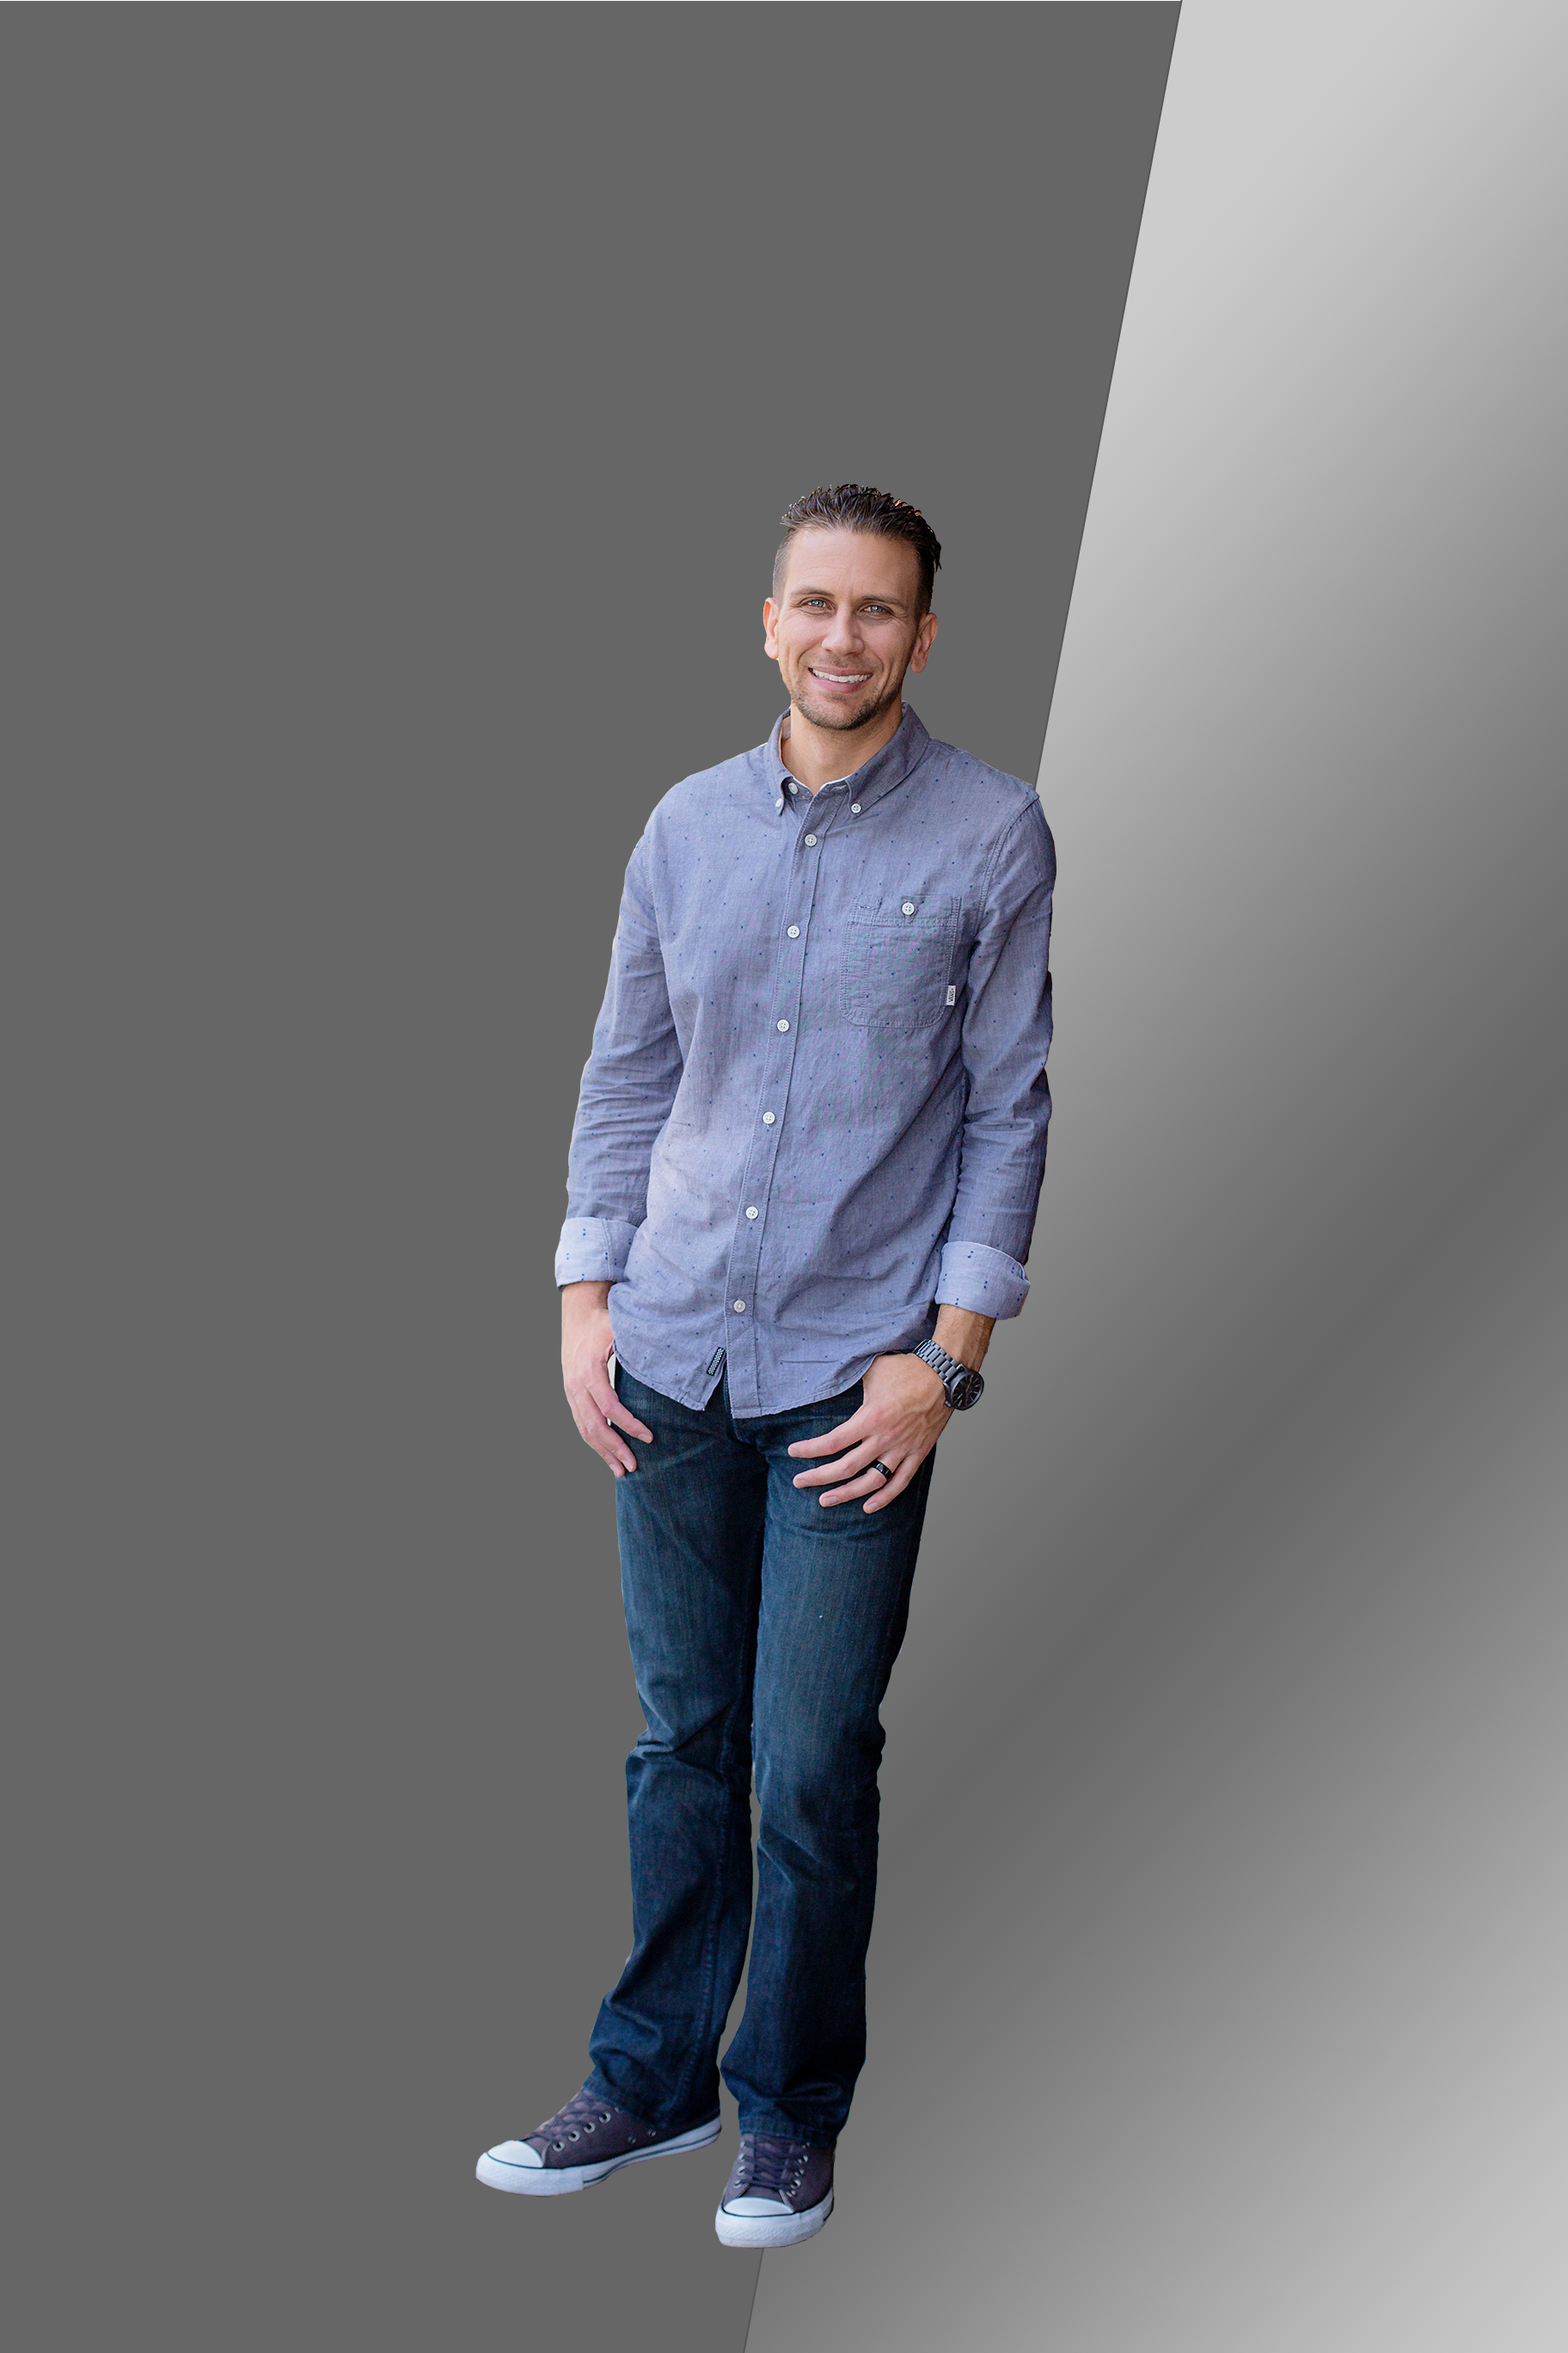
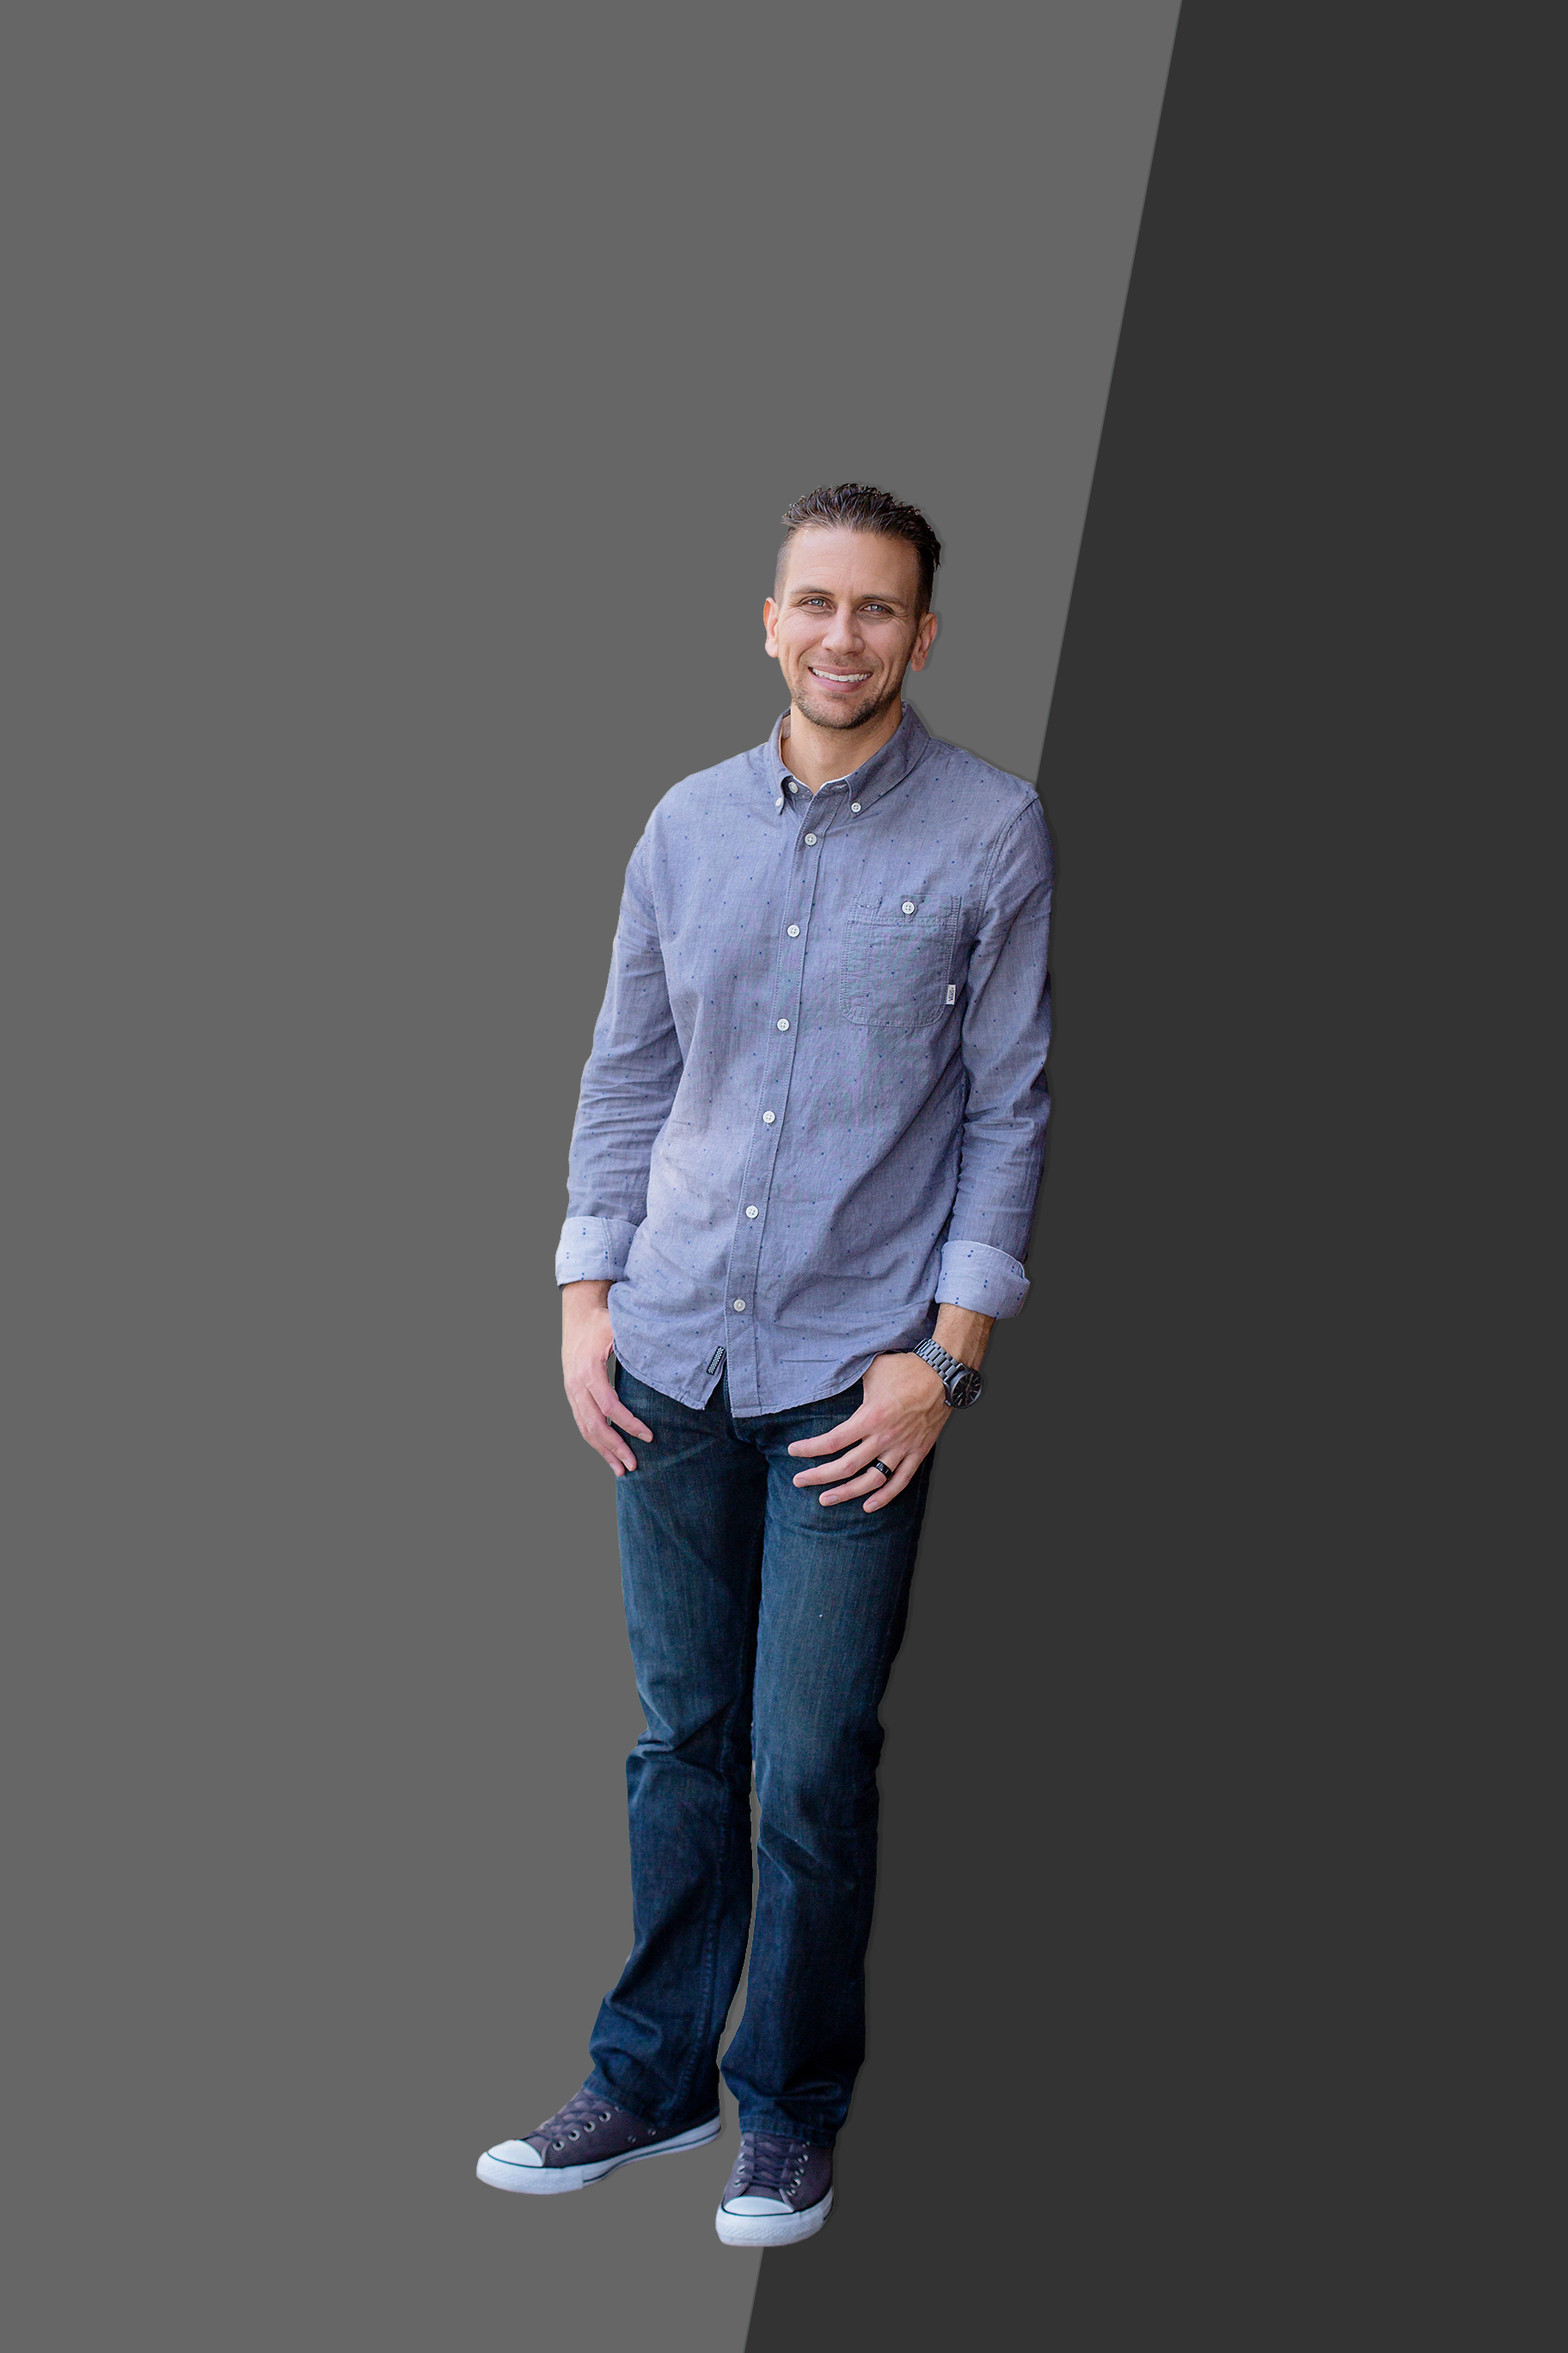
updated portfolio background

diff --git a/css/style.css b/css/style.css
@@ -763,7 +763,8 @@ i:hover {
 
   .Main {
     height: 35em;
-    background-position: 2% 70%;
+    background-position: 30% 32%;
+    background-size: 200%;
   }
 
   .tab label {
@@ -771,9 +772,15 @@ i:hover {
   }
 
   .tab-group {
-    height:30em;
-    padding-top: 8em;
+    height:35.3em;
+    padding-top: 9em;
+    margin-top: -3em;
   }
+
+  .tab-content p {
+    font-size: .9em;
+  }
+
 
   .tab-content p {
     font-size: .9em;
@@ -910,8 +917,10 @@ i:hover {
     width: 85%;
   }
 
-  .Main {
-    height: 44em;
+   .Main {
+    height: 38em;
+    background-size: 170%;
+    background-position: 35% 31%;
   }
 
   .tab label {
@@ -919,9 +928,9 @@ i:hover {
   }
 
   .tab-group {
-    height: 44em;
-    padding-top: 16em;
-    margin-top: -2.7em;
+    height:38em;
+    padding-top: 10em;
+    margin-top: -2.5em;
   }
 
   .tab-content p {
@@ -1079,19 +1088,19 @@ i:hover {
   }
 
    
-   .Main {
-     background-position: 0% 30%;
-     height: 40em;
+  .Main {
+    height: 38em;
+    background-position: 20% 100%;
   }
 
   .tab label {
-     font-size: 1.7em;
+     font-size: 1.5em;
   }
 
-   .tab-group {
-     margin-top: -2.5em;
-     padding-top: 11em;
-     height: 40em;
+  .tab-group {
+    height:38em;
+    padding-top: 10em;
+    margin-top: -2.5em;
   }
 
    .tab-content p {
@@ -1116,24 +1125,24 @@ i:hover {
 @media screen and (min-width: 900px) {
 
   .title {
-      font-size: 1.8em;
-      margin-top: .5em;
-    }
+    font-size: 1.8em;
+     margin-top: .5em;
+  }
 
-    .nav {
-      margin-top: -2.9em;
-    }
+  .nav {
+    margin-top: -2.9em;
+  }
 
-    .nav li {
-      font-size: 1.3em;
-    }
-
-    .top-icons {
-      margin-top: -.7em;
-    }
+  .nav li {
+    font-size: 1.3em;
+  }
 
   .top-icons li {
     padding-top: .4em;
+  }
+
+  .overlayAM {
+    height: 8.5em;
   }
 
   .CPlogo {
@@ -1285,15 +1294,16 @@ i:hover {
     width: 70%;
   }
 
-   . .Main {
-     background-position: 0% 30%;
-     height: 39.5em;
+  .Main {
+    background-size: 115%;
+    background-position: 2% 27%;
+    height: 39.5em;
   }
 
-   .tab-group {
-     margin-top: -3em;
-     padding-top: 10em;
-     height: 40em;
+  .tab-group {
+    margin-top: -3em;
+    padding-top: 11em;
+    height: 40em;
   }
    
    .tab label {
@@ -1500,26 +1510,27 @@ i:hover {
     width: 70%;
   }
 
-  .Main {
+   .Main {
      margin-top: 0;
-     background-position: 0% 30%;
-     height: 40em;
+     background-size: 110%;
+     background-position: 0% 26%;
+     height: 42em;
   }
 
   .tab-group {
      margin-top: 0em;
-     padding-top: 9em;
-     height: 40em;
+     padding-top: 14em;
+     height: 42em;
      padding-left: 3em;
      padding-right: 3em;
   }
    
   .tab label {
-     font-size: 2em;
+     font-size: 1.9em;
   }
 
   .tab-content {
-     font-size: 1em;
+     font-size: .9em;
      padding: 0 2em 0 0;
   }
 
@@ -1693,13 +1704,15 @@ i:hover {
     width: 60%;
   }  
 
-  .Main {
-     background-position: 0% 30%;
-     height: 40em;
+   .Main {
+     background-size: 110%;
+     background-position: 0% 25%;
+     height: 43em;
   }
 
   .tab-group {
-     height: 40em;
+     padding-top: 16em;
+     height: 43em;
   }
 
   .Button {
@@ -1737,14 +1750,14 @@ i:hover {
     margin-left: 18%;
   }
 
-  .Main {
-     background-position: 0% 25%;
+   .Main {
+     background-position: 0% 26%;
      height: 45em;
   }
 
   .tab-group {
     height: 45em;
-    padding-top: 15em;
+    padding-top: 16em;
   }
 
   #ViewProjects {

diff --git a/css/accordion.css b/css/accordion.css
@@ -1,7 +1,7 @@
 .tab-group {
   width: 100%;
   float: left;
-  background-color: rgba(7,7,7,.3);
+  background-color: rgba(7,7,7,.2);
   padding: 0 2em;
   text-align: left;
   height: 40em;
